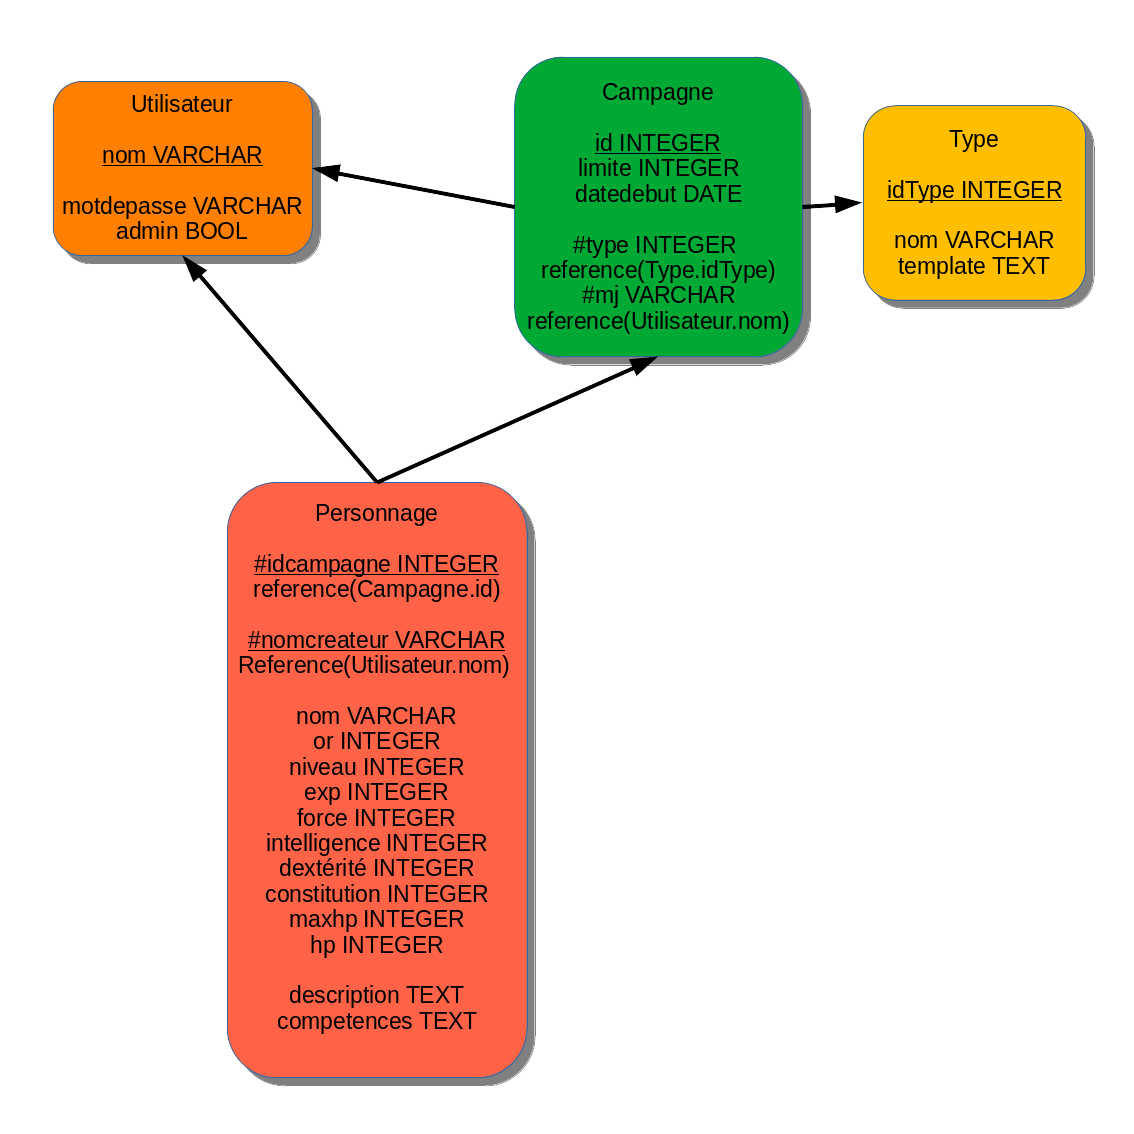
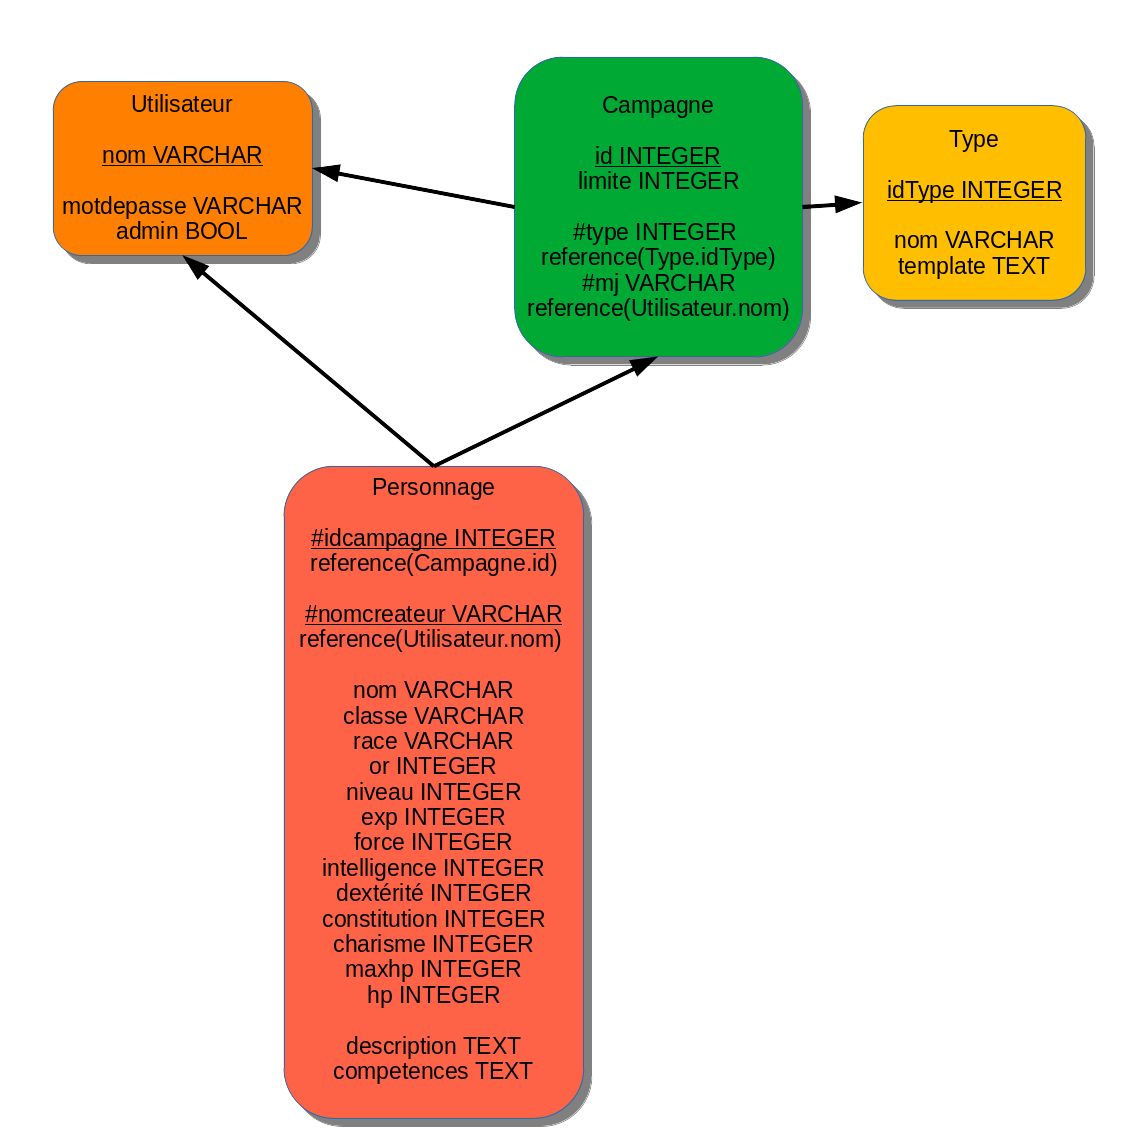
Ajout des DTO et modification de utilities.

diff --git a/api/restjdr/src/main/java/org/projet/restjdr/misc/RestjdrApplication.java b/api/restjdr/src/main/java/org/projet/restjdr/misc/RestjdrApplication.java
@@ -6,8 +6,5 @@ import org.springframework.boot.autoconfigure.SpringBootApplication;
 @SpringBootApplication
 public class RestjdrApplication {
 
-	public static void main(String[] args) {
-		SpringApplication.run(RestjdrApplication.class, args);
-	}
-
+	public static void main(String[] args) { SpringApplication.run(RestjdrApplication.class, args); }
 }

diff --git a/api/restjdr/src/main/java/org/projet/restjdr/utils/ImmutableKeyMap.java b/api/restjdr/src/main/java/org/projet/restjdr/utils/ImmutableKeyMap.java
@@ -9,8 +9,8 @@ import java.util.Map;
  * @param <K> Type des clés
  * @param <V> Type des valeurs
  */
-public class FinalKeyMap<K, V> extends HashMap<K, V> {
-    public FinalKeyMap (HashMap<K, V> m)
+public class ImmutableKeyMap<K, V> extends HashMap<K, V> {
+    public ImmutableKeyMap(HashMap<K, V> m)
     {
         super(m);
     }

diff --git a/api/restjdr/src/main/java/org/projet/restjdr/entity/Campaign.java b/api/restjdr/src/main/java/org/projet/restjdr/entity/Campaign.java
@@ -6,9 +6,13 @@ import javax.persistence.*;
 
 @Data
 @Entity
+/**
+ * Ce DTO représente une campagne.
+ */
 public class Campaign {
     @Id @GeneratedValue(strategy = GenerationType.AUTO)
     private int id;
-    @Enumerated(EnumType.STRING)
+    private int limite;
     private int type;
+    private String mj;
 }

diff --git a/api/restjdr/src/main/java/org/projet/restjdr/entity/User.java b/api/restjdr/src/main/java/org/projet/restjdr/entity/User.java
@@ -8,9 +8,7 @@ import javax.persistence.Entity;
 import javax.persistence.Id;
 
 /**
- * Classe pour la gestion d'un utilisateur
- * Contient un nom d'utilisateur, un mot de passe ansi
- * qu'un boolean indiquant si l'utilisateur est administrateur.
+ * Ce DTO représente un utilisateur.
  */
 @Data
 @Entity

diff --git a/README.md b/README.md
@@ -1,6 +1,6 @@
-# Gestion de fiche de personnage pour Jeux de Rôles
+# Gestion de fiche de personnage pour Jeu de Rôle
 
-Pour ce projet, nous construirons un petit site web primitif dans le but d'avoir un outil nous permettant de faire une gestion, autant pour les joueurs que pour les Maîtres du jeu (MJ), des différentes fiches de personnage.
+Pour ce projet, nous construirons un petit site web primitif dans le but d'avoir un outil nous permettant de faire une gestion, autant pour les joueurs que pour les maîtres du jeu (MJ), des différentes fiches de personnage.
 
 ## Cahier des Charges
 
@@ -8,23 +8,73 @@ Pour ce projet, nous construirons un petit site web primitif dans le but d'avoir
 
 Le site devra répondre aux différentes fonctionalités listées ci-dessous :
 
-- Un utilisateur pourras créer se connecter ansi que supprimer son propre compte.
+- Un utilisateur pourras créer ou supprimer son compte.
 - Un utilisateur créer une campagne, ou participer à une campagne.
   - Si l'utilisateur crée une campagne, ce dernier est automatiquement MJ de cette campagne.
 
-- Une joueur peut rejoindre une campagne seulement si la limite de joueur n'as pas été atteinte et que la campagne est ouverte.
-  - Si la campagne n'est pas ouverte, seul le MJ peut ajouter un joueur à la campagne.
+- Une joueur peut rejoindre une campagne seulement si la limite de joueur n'as pas été atteinte.
+  - Un MJ peut aussi ajouter un joueur à une campagne.
 
 - Le MJ peut ajouter ou supprimer n'importe quel utilisateur à sa campagne. -dans la limite du nombre de place fixé-
 - Un MJ ne peut pas être joueur dans sa propre campagne.
 
-TODO
+- Un administrateur peut supprimer n'importe quel compte.
+
+- Un joueur peut modifier les données de ses fiches de personnages. (Mettre en readonly ?)
+- Un MJ peut modifier les fiches des personnages associés à ses campagnes.
+
+- Les fiches de personnage contiennent :
+  - Nom du personnage
+  - Sa classe
+  - Sa race
+  - Une description
+  - Son nombre de hitpoint (HP) maximum
+  - Son nombre de HP actuel
+  - Sa quantité de point d'expérience
+  - Son niveau
+  - Son intelligence
+  - Sa force
+  - Sa dextérité
+  - Son charisme
+  - Sa constitution
+  - Ses compétences -qui seront différents en fonction de la campagne-
 
 ### Base de donnée
 
-TODO
+Un utilisateur possède :
 
-![Schéma de la base de donné.](doc/images/schemabdd.png?raw=true "Schéma de la BDD")
+- __Un nom d'utilisateur__
+- Un mot de passe
+- Est-il administrateur ?
+
+Une campagne possède un type, celui-ci permettras plus tard de définir la section compétence d'une fiche de joueur.
+Celle-ci possède :
+
+- __Un identifiant unique__
+- Un nom
+- Un template -un bloc text contenant les différentes compétences séparées par des virgules-
+
+L'utilisateur peut créer autant de campagne qu'il veut, en revanche une campagne n'appartient qu'à une seule personne -son MJ-
+Celle-ci possède :
+
+- __Un identifiant unique__
+- Une limite de joueur -qui sera décrementé lorsqu'un nouveau joueur joindras-
+- Un MJ clé étrangère faisant réference à l'identifiant de son créateur
+- Un type clé étrangère faisant réference à son type de campagne
+
+L'utilisateur peut créer autant de fiche de personnage qu'il veut, cependant il ne peut en faire qu'une seule par campagne.
+Une fiche de personnage contient :
+
+- __idcampagne__ clé étrangère faisant réference à la campagne à laquelle le personnage appartient
+- __nommcreateur__ clé étrangère faisant référence au créateur de cette fiche de personnage
+- Les différent composant d'une fiche de personnage vu dans la section prédédente
+
+Note : Les compétences seront enregistré en JSON dans un format texte, par exemple :
+`"{\"c1\" : 1, \"c2\" : 3, \"c3\" : 10}"`
+
+Vous trouverez ci-dessous un schéma représentant le base de donnée (voir API):
+
+![Schéma de la base de donné](doc/images/schemabdd.png?raw=true "Schéma de la BDD")
 
 ### API
 
